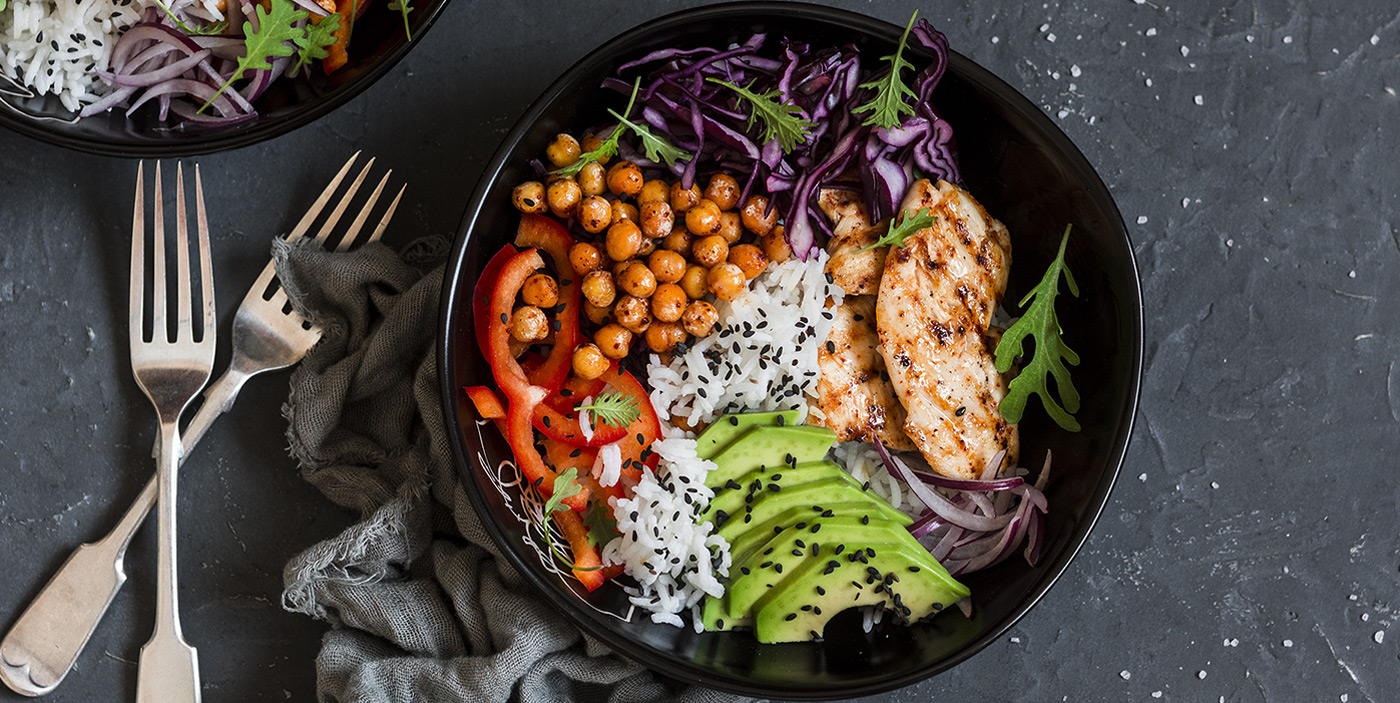
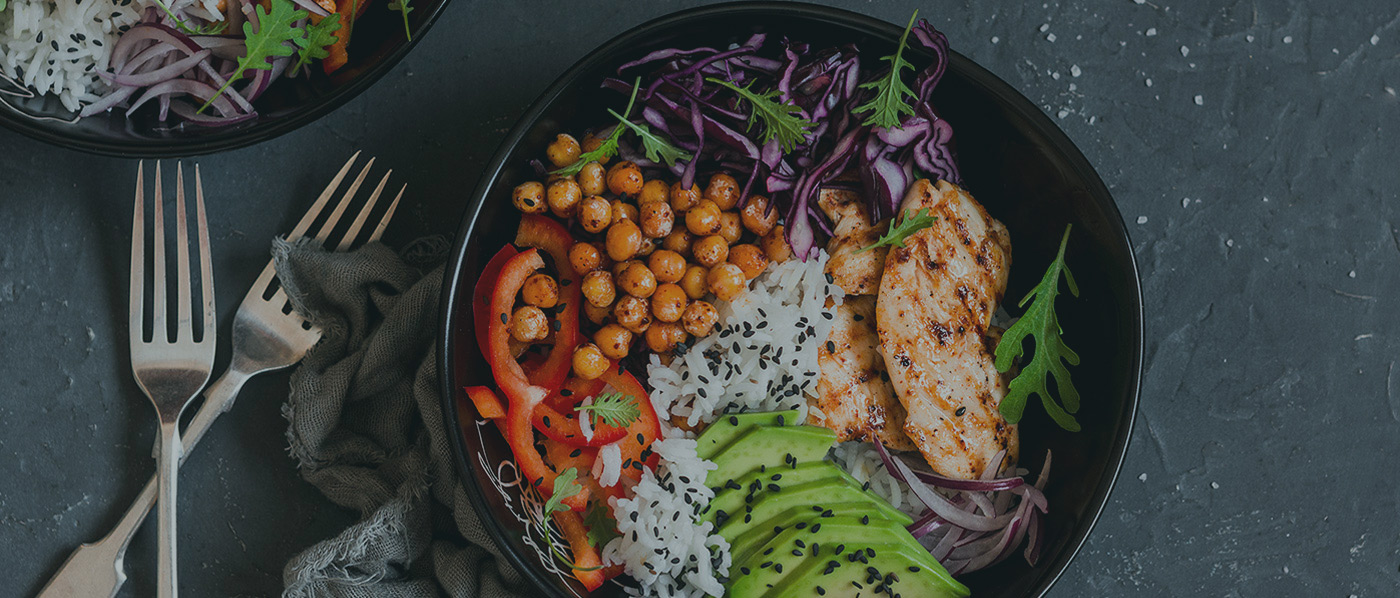
Atualização imagem home, link insta e redirecionamento para página de contato

diff --git a/index.html b/index.html
@@ -19,7 +19,7 @@
 			<nav class="grid-12 header_menu">
 				<ul>
 					<!-- <li><a href="login.html">Login</a></li> -->
-					<li><a href="desenvolvimento.html">Pedido</a></li>
+					<li><a href="contato.html">Pedido</a></li>
 					<li><a href="contato.html">Contato</a></li>
 					<li><a href="sobre.html">Sobre</a></li>
 					<!-- <li><a href="contato.html">Contato</a></li> -->
@@ -30,9 +30,11 @@
 
 	<section class="introducao">
 		<div class="container">
-			<h1>O seu delivery de Marmitas</h1>
+			<div class="teste">
+				<h1>O seu delivery de Marmitas</h1>
+			</div>
 		</div>
-		<a href="desenvolvimento.html" class="btn">Peça a sua</a>
+		<a href="contato.html" class="btn">Peça a sua</a>
 	</section>
 
 	<section class="produtos container">
@@ -65,7 +67,7 @@
 		
 		<div class="call">
 			<p>clique aqui e dê uma espiadinha nas delícias dessa semana</p>
-			<a href="desenvolvimento.html" class="btn btn-preto">Confira</a>
+			<a href="contato.html" class="btn btn-preto">Confira</a>
 		</div>
 
 	</section>
@@ -92,7 +94,7 @@
 					<h3>Redes Sociais</h3>
 					<ul>
 						<li><a href="https://www.facebook.com/Pandeco.com.br/" target="_blank"><img src="img/icones/facebook.png"></a></li>
-						<li><a href="https://www.instagram.com/p/BgpPJT8Aclr/?utm_source=ig_share_sheet&igshid=17d4em6dto3od" target="_blank"><img src="img/icones/instagram.png"></a></li>
+						<li><a href="https://www.instagram.com/pandeco.com.br/" target="_blank"><img src="img/icones/instagram.png"></a></li>
 						<!-- <li><a href="" target="_blank"><img src="img/icones/twitter.png"></a></li> -->
 					</ul>
 				</div>

diff --git a/contato.html b/contato.html
@@ -21,7 +21,7 @@
 				<nav class="grid-12 header_menu">
 					<ul>
 						<!-- <li><a href="login.html">Login</a></li> -->
-						<li><a href="pedido.html">Pedido</a></li>
+						<li><a href="contato.html">Pedido</a></li>
 						<li><a href="contato.html" class="menu_ativo">Contato</a></li>
 						<li><a href="sobre.html">Sobre</a></li>
 						<!-- <li><a href="contato.html">Contato</a></li> -->
@@ -60,7 +60,7 @@
 				<h3>Redes Sociais</h3>
 				<ul>
 					<li><a href="https://www.facebook.com/Pandeco.com.br/" target="_blank"><img src="img/icones/facebook.png"></a></li>
-					<li><a href="https://www.instagram.com/p/BgpPJT8Aclr/?utm_source=ig_share_sheet&igshid=17d4em6dto3od" target="_blank"><img src="img/icones/instagram.png"></a></li>
+					<li><a href="https://www.instagram.com/pandeco.com.br/" target="_blank"><img src="img/icones/instagram.png"></a></li>
 					<!-- <li><a href="" target="_blank"><img src="img/icones/twitter.png"></a></li> -->
 				</ul>
 			</div>
@@ -89,7 +89,7 @@
 					<h3>Redes Sociais</h3>
 					<ul>
 						<li><a href="https://www.facebook.com/Pandeco.com.br/" target="_blank"><img src="img/icones/facebook.png"></a></li>
-						<li><a href="https://www.instagram.com/p/BgpPJT8Aclr/?utm_source=ig_share_sheet&igshid=17d4em6dto3od" target="_blank"><img src="img/icones/instagram.png"></a></li>
+						<li><a href="https://www.instagram.com/pandeco.com.br/" target="_blank"><img src="img/icones/instagram.png"></a></li>
 						<!-- <li><a href="" target="_blank"><img src="img/icones/twitter.png"></a></li> -->
 					</ul>
 				</div>

diff --git a/css/style.css b/css/style.css
@@ -30,7 +30,7 @@ img {
 
 .btn:hover {
 	color:  #fec73c;
-	background-color: transparent;
+	background-color: #000;
 }
 
 .btn.btn-preto:hover {
@@ -111,10 +111,10 @@ img {
 	color: #801815;
 }
 /* Introdução*/
-
+/*Imagem background*/
 .introducao {
 	width: 100%;
-	height: 380px;
+	height: 600px;
 	background: url('../img/bg.jpg') no-repeat center;
 	background-size: cover;
 	margin-top: 77px;
@@ -127,6 +127,7 @@ img {
 	color: #FFF;
 	font-weight: bold;
 	margin-bottom: 100px;
+	padding-top: 40px;
 }
 
 .introducao h1:before, .introducao h1:after {

diff --git a/css/responsivo.css b/css/responsivo.css
@@ -35,7 +35,7 @@
 
 	#nome_pandeco {
 		margin: 0 auto 30px auto;
-		margin-left: 65px;
+		margin-left: 52px;
 	}
 
 	/*Introdução */
@@ -47,7 +47,6 @@
 	}
 
 	/*Contato*/
-
 	.contato_form {
 		padding-right: 0px;
 		margin-bottom: 40px;
